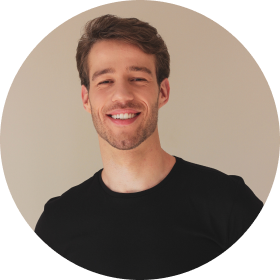
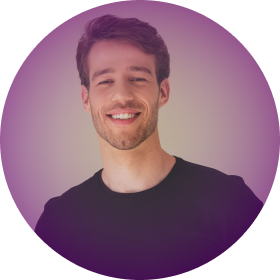
main

diff --git a/styles/book/book.css b/styles/book/book.css
@@ -1,7 +1,7 @@
 .book {
     padding-top: 50px;
     padding-bottom: 50px;
-    background-color: #440F51;
+    background-color: var(--main-color);
 }
 
 .book form {
@@ -69,7 +69,7 @@ form h3 {
 
 .form-halls_radio {
     display: flex;
-    border: 2px solid #440F51;;
+    border: 2px solid var(--main-color);
     color: black;
     font-family: Arial, Helvetica, sans-serif;
     font-size: 30px;
@@ -87,18 +87,18 @@ form h3 {
 
 .form-halls_radio:hover {
     transition-duration: 0.2s;
-    border: 2px solid rgba(100, 10, 163, 1);
-    background-color: rgba(234, 222, 237, 1);
+    border: 2px solid var(--hover-border-color);
+    background-color: var(--hover-bacground-color);
 }
 
 .form-halls_radio:active {
-    background-color: rgba(108, 2, 135, 1);
-    border: 2px solid rgba(255, 255, 255, 1);
+    background-color: var(--hover_focus-color);
+    border: 2px solid var(--book_active_focus-border-color);
 }
 
 .form-halls_radio:focus {
-    border: 2px solid rgba(100, 10, 163, 1);
-    background-color: rgba(255, 255, 255, 1);
+    border: 2px solid var(--hover-border-color);
+    background-color: var(--book_active_focus-border-color);
 }
 
 .kit {
@@ -185,7 +185,7 @@ form input[type="radio"] {
 
 .book-btn {
     color: #6C0287;
-    border: 2px solid #440F51;
+    border: 2px solid var(--main-color);
     border-radius: 10px;
     background-color: white;
     padding: 16px 50px;
@@ -201,28 +201,28 @@ form input[type="radio"] {
 
 .book-btn:hover {
     transition-duration: 0.2s;
-    border: 2px solid rgba(108, 2, 135, 1);
-    background-color: rgba(234, 222, 237, 1);
-    color: rgba(108, 2, 135, 1);
+    border: 2px solid var(--hover_focus-color);
+    background-color: var(--hover-bacground-color);
+    color: var(--hover_focus-color);
 }
 
 .book-btn:active {
     border: none;
-    background-color: rgba(234, 222, 237, 1);
+    background-color: var(--hover-bacground-color);
 }
 
 .book-btn:focus {
-    border: 2px solid rgba(108, 2, 135, 1);
-    background-color: rgba(255, 255, 255, 1);
+    border: 2px solid var(--hover_focus-color);
+    background-color: var(--book_active_focus-border-color);
 }
 
 input[type="tel"]:focus {
     outline: none;
-    border: 2px solid rgba(205, 6, 255, 1);
+    border: 2px solid var(--input-focus-color);
 }
 
 .kit-el input:focus-within {
-    outline: 2px solid rgba(205, 6, 255, 1);
-    border: 2px solid rgba(205, 6, 255, 1);
+    outline: 2px solid var(--input-focus-color);
+    border: 2px solid var(--input-focus-color);
 }
 

diff --git a/styles/main/main.css b/styles/main/main.css
@@ -134,14 +134,14 @@ body {
 
 
 .tema__purple {
-    color: #CD06FF;
+    color: var(--main-title-color);
     font-family: Arial, Helvetica, sans-serif;
     font-weight: bold;
     font-size: 100px;
 }
 
 .tema__purple-smaller {
-    color: #CD06FF;
+    color: var(--main-title-color);
     font-family: Arial, Helvetica, sans-serif;
     font-weight: bold;
     font-size: 75px;
@@ -149,15 +149,15 @@ body {
 
 .title-info-btn {
     cursor: pointer;
-    background-color: #CD06FF;
-    border: 1px solid #CD06FF;
+    background-color: var(--main-title-color);
+    border: 1px solid var(--main-title-color);
     color: white;
     font-family: Arial, Helvetica, sans-serif;
     font-size: 26px;
     line-height: 30px;
     padding: 25px 69px;
     border-radius: 10px;
-    box-shadow: 0px 0px 10px 3px rgba(108, 2, 135, 1)
+    box-shadow: 0px 0px 10px 3px var(--hover_focus-color)
 }
 
 .title-info-btn:hover {
@@ -167,8 +167,8 @@ body {
 }
 
 .title-info-btn:active {
-    background-color: rgba(100, 10, 163, 1);
-    border: 1px solid rgba(100, 10, 163, 1);
+    background-color: var(--hover-border-color);
+    border: 1px solid var(--hover-border-color);
 }
 
 .title-info-btn:focus {

diff --git a/styles/nav/nav.css b/styles/nav/nav.css
@@ -21,14 +21,14 @@
 
 .nav-list a:hover {
     transition-duration: 0.2s;
-    color: #CD06FF;
+    color: var(--main-title-color);
 }
 
 .nav-btn {
     font-family: Arial, Helvetica, sans-serif;
     font-size: 22px;
     line-height: 30px;
-    border: 2px solid #CD06FF;
+    border: 2px solid var(--main-title-color);
     border-radius: 10px;
     background: none;
     color: white;
@@ -37,19 +37,19 @@
 
 .nav-btn:hover {
     transition-duration: 0.2s;
-    border: 2px solid rgba(108, 2, 135, 1);
-    background-color: rgba(108, 2, 135, 1);
+    border: 2px solid var(--hover_focus-color);
+    background-color: var(--hover_focus-color);
     transition-duration: 0.2s;
 }
 
 .nav-btn:active {
-    border: 2px solid rgba(100, 10, 163, 1);
-    background-color: rgba(100, 10, 163, 1);
+    border: 2px solid var(--hover-border-color);
+    background-color: var(--hover-border-color);
 }
 
 .nav-btn:focus {
-    border: 2px solid rgba(108, 2, 135, 1);
-    background-color: rgba(108, 2, 135, 1);
+    border: 2px solid var(--hover_focus-color);
+    background-color: var(--hover_focus-color);
 }
 
 

diff --git a/styles/reviews/reviews.css b/styles/reviews/reviews.css
@@ -32,6 +32,22 @@
 
 }
 
+.review-reviewer img {
+    position: relative;
+}
+
+.review-reviewer img::after {
+    content: '';
+    position: absolute;
+    top: 0;
+    right: 0;
+    width: 100%;
+    height: 100%;
+    background: transparent;
+    background-image: radial-gradient(50% 50.00% at 50% 50.00%, rgba(196, 196, 196, 0.00) 0%, rgba(108, 2, 135, 0.50) 100%);
+
+}
+
 .review p{
     color: white;
     font-family: Arial, Helvetica, sans-serif;

diff --git a/styles/var/var.css b/styles/var/var.css
@@ -1,0 +1,10 @@
+:root {
+    --main-color: #440F51;
+    --hover_focus-color: rgba(108, 2, 135, 1);
+    --book_active_focus-border-color: rgba(255, 255, 255, 1);
+    --hover-border-color: rgba(100, 10, 163, 1);
+    --hover-bacground-color: rgba(234, 222, 237, 1);
+    --input-focus-color: rgba(205, 6, 255, 1);
+    --svg-fill: #CD06FF;
+    --main-title-color: #CD06FF;
+}

diff --git a/styles/we-got-all/we-got-all.css b/styles/we-got-all/we-got-all.css
@@ -22,3 +22,11 @@
 .we-got-all-card:hover {
     scale: 1.08;
 }
+
+.we-got-all-card:nth-child(2) {
+    padding-top: 50px;
+}
+
+.we-got-all-card:nth-child(5) {
+    padding-top: 50px;
+}

diff --git a/styles/style.css b/styles/style.css
@@ -8,6 +8,7 @@
 @import url('./reviews/reviews.css');
 @import url('./nav/nav.css');
 @import url('./we-got-all/we-got-all.css');
+@import url('./var/var.css');
 
 
 

diff --git a/styles/faq/faq.css b/styles/faq/faq.css
@@ -30,7 +30,7 @@
 }
 
 .faq li:nth-child(odd) {
-    background-color: #440F51;
+    background-color: var(--main-color);
     color: white;
 }
 

diff --git a/styles/contacts/contacts.css b/styles/contacts/contacts.css
@@ -89,5 +89,5 @@ a {
 
 .svg-hover:hover {
     transition-duration: 0.2s;
-    fill: #CD06FF;
+    fill: var(--svg-fill);
 }
